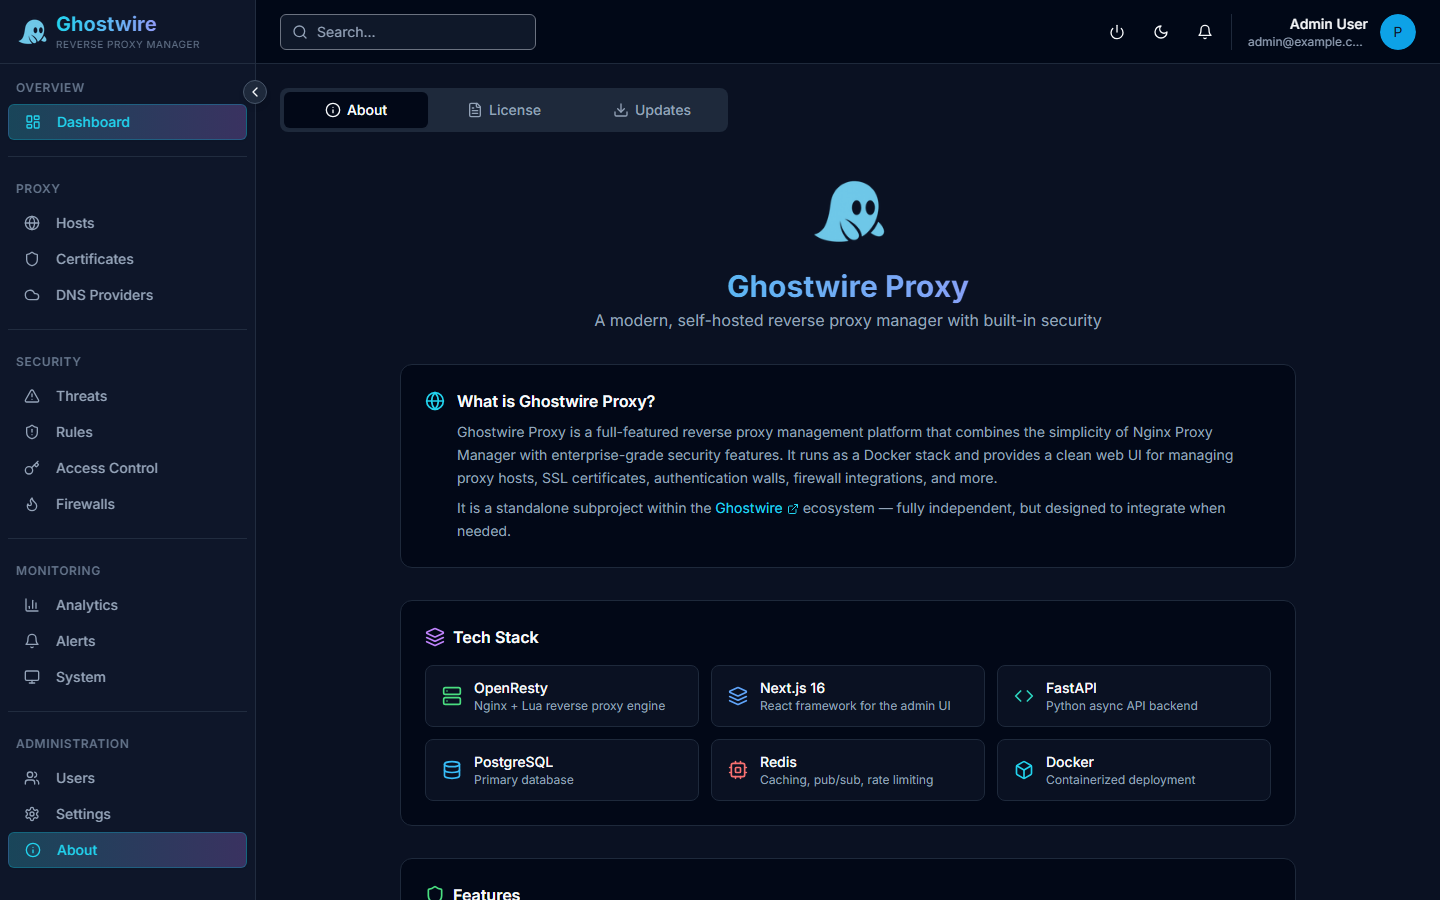
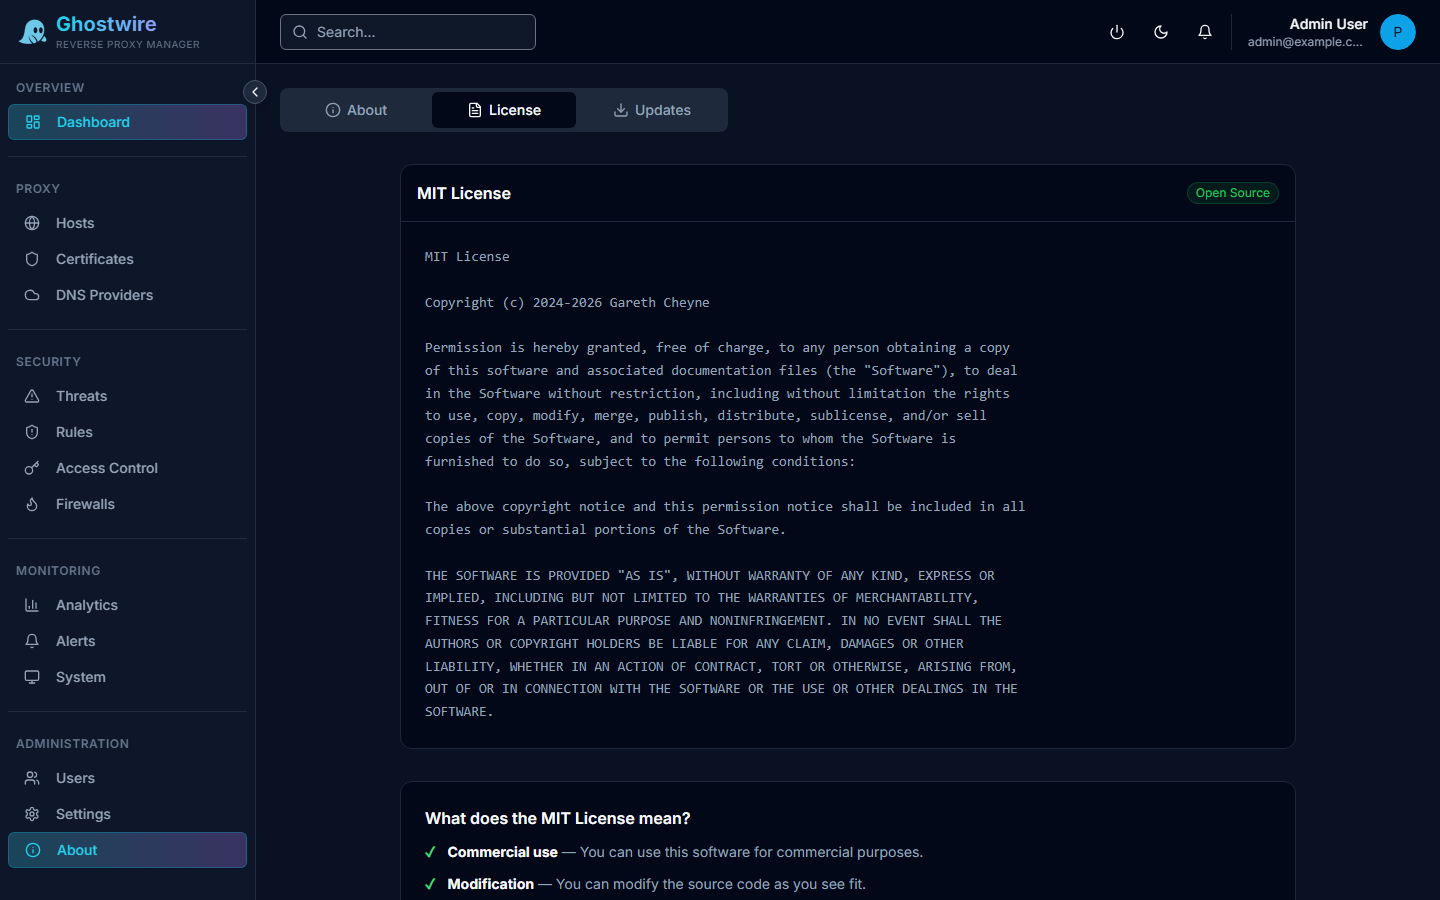
update

diff --git a/scripts/screenshots/capture.js b/scripts/screenshots/capture.js
@@ -195,24 +195,52 @@ async function redactPage(pg) {
 
       // Click a specific tab if requested
       if (entry.tab) {
-        const tabButton = page.locator(`[data-value="${entry.tab}"], [value="${entry.tab}"]`).first();
-        if (await tabButton.count()) {
-          await tabButton.click();
-          await page.waitForTimeout(3000);
+        let clicked = false;
+
+        // Try data-value attribute (custom buttons + Radix TabsTrigger)
+        const byDataValue = page.locator(`[data-value="${entry.tab}"]`).first();
+        if (await byDataValue.count()) {
+          await byDataValue.click();
+          clicked = true;
+        }
+
+        // Fallback: try role="tab" buttons by accessible name
+        if (!clicked) {
+          const byRole = page.getByRole('tab', { name: new RegExp(entry.tab.replace('-', '.*'), 'i') });
+          if (await byRole.count()) {
+            await byRole.first().click();
+            clicked = true;
+          }
+        }
+
+        if (clicked) {
+          await page.waitForTimeout(entry.wait || 3000);
+        } else {
+          console.log(`    ⚠ Tab "${entry.tab}" not found on page`);
         }
       }
 
       // Scroll to bottom if requested (to reveal heatmaps etc.)
       if (entry.scroll) {
-        await page.evaluate(() => window.scrollTo({ top: document.body.scrollHeight, behavior: 'smooth' }));
+        await page.evaluate(() => {
+          // Try the main scrollable container first, then fall back to window
+          const main = document.querySelector('main') || document.scrollingElement || document.documentElement;
+          main.scrollTo({ top: main.scrollHeight, behavior: 'smooth' });
+        });
         await page.waitForTimeout(2000);
       }
 
       // Scroll to a specific heading so it's visible in the viewport
       if (entry.scrollTo) {
         await page.evaluate((heading) => {
-          const els = [...document.querySelectorAll('h3, h2, h4')];
-          const target = els.find((el) => el.textContent.includes(heading));
+          const els = [...document.querySelectorAll('h3, h2, h4, text, [class*="heading"], [class*="title"]')];
+          let target = els.find((el) => el.textContent.includes(heading));
+          // Also search in all elements with the heading text
+          if (!target) {
+            target = [...document.querySelectorAll('*')].find(
+              (el) => el.childElementCount === 0 && el.textContent.trim().includes(heading)
+            );
+          }
           if (target) target.scrollIntoView({ behavior: 'smooth', block: 'start' });
         }, entry.scrollTo);
         await page.waitForTimeout(3000);

diff --git a/frontend/src/app/(dashboard)/dashboard/about/page.tsx b/frontend/src/app/(dashboard)/dashboard/about/page.tsx
@@ -74,6 +74,7 @@ export default function AboutPage() {
       {/* Tabs */}
       <div className="flex gap-1 rounded-lg bg-muted p-1 max-w-md">
         <button
+          data-value="about"
           onClick={() => setActiveTab('about')}
           className={`flex-1 flex items-center justify-center gap-1.5 rounded-md px-3 py-2 text-sm font-medium transition-colors ${
             activeTab === 'about'
@@ -85,6 +86,7 @@ export default function AboutPage() {
           About
         </button>
         <button
+          data-value="license"
           onClick={() => setActiveTab('license')}
           className={`flex-1 flex items-center justify-center gap-1.5 rounded-md px-3 py-2 text-sm font-medium transition-colors ${
             activeTab === 'license'
@@ -96,6 +98,7 @@ export default function AboutPage() {
           License
         </button>
         <button
+          data-value="updates"
           onClick={() => setActiveTab('updates')}
           className={`flex-1 flex items-center justify-center gap-1.5 rounded-md px-3 py-2 text-sm font-medium transition-colors ${
             activeTab === 'updates'

diff --git a/frontend/src/app/(dashboard)/dashboard/access-control/page.tsx b/frontend/src/app/(dashboard)/dashboard/access-control/page.tsx
@@ -29,6 +29,7 @@ export default function AccessControlPage() {
       {/* Tabs */}
       <div className="flex gap-1 rounded-lg bg-muted p-1">
         <button
+          data-value="auth-walls"
           onClick={() => setActiveTab('auth-walls')}
           className={`flex-1 flex items-center justify-center gap-1.5 rounded-md px-3 py-2 text-sm font-medium transition-colors ${
             activeTab === 'auth-walls'
@@ -41,6 +42,7 @@ export default function AccessControlPage() {
           <span className="sm:hidden">Auth</span>
         </button>
         <button
+          data-value="ip-lists"
           onClick={() => setActiveTab('ip-lists')}
           className={`flex-1 flex items-center justify-center gap-1.5 rounded-md px-3 py-2 text-sm font-medium transition-colors ${
             activeTab === 'ip-lists'

diff --git a/frontend/src/app/(dashboard)/dashboard/docs/layout.tsx b/frontend/src/app/(dashboard)/dashboard/docs/layout.tsx
@@ -11,9 +11,9 @@ export default function DocsLayout({
   const navigation = getNavigation()
 
   return (
-    <div className="flex min-h-0 -m-3 sm:-m-4 md:-m-6">
+    <div className="flex -m-3 sm:-m-4 md:-m-6 h-[calc(100vh-3.5rem)]">
       {/* Docs sidebar */}
-      <div className="hidden lg:block shrink-0">
+      <div className="hidden lg:block shrink-0 overflow-y-auto">
         <DocsSidebar navigation={navigation} />
       </div>
 

diff --git a/frontend/src/app/(dashboard)/dashboard/threats/page.tsx b/frontend/src/app/(dashboard)/dashboard/threats/page.tsx
@@ -343,6 +343,7 @@ export default function ThreatsPage() {
           return (
             <button
               key={tab.key}
+              data-value={tab.key}
               onClick={() => setActiveTab(tab.key as typeof activeTab)}
               className={`flex items-center gap-1.5 rounded-md px-3 py-2 text-sm font-medium whitespace-nowrap transition-colors ${
                 activeTab === tab.key

diff --git a/frontend/src/app/(dashboard)/dashboard/rules/page.tsx b/frontend/src/app/(dashboard)/dashboard/rules/page.tsx
@@ -677,6 +677,7 @@ export default function RulesPage() {
           return (
             <button
               key={tab.key}
+              data-value={tab.key}
               onClick={() => setActiveTab(tab.key as TabType)}
               className={`flex items-center gap-1.5 rounded-md px-3 py-2 text-sm font-medium whitespace-nowrap transition-colors ${
                 activeTab === tab.key
